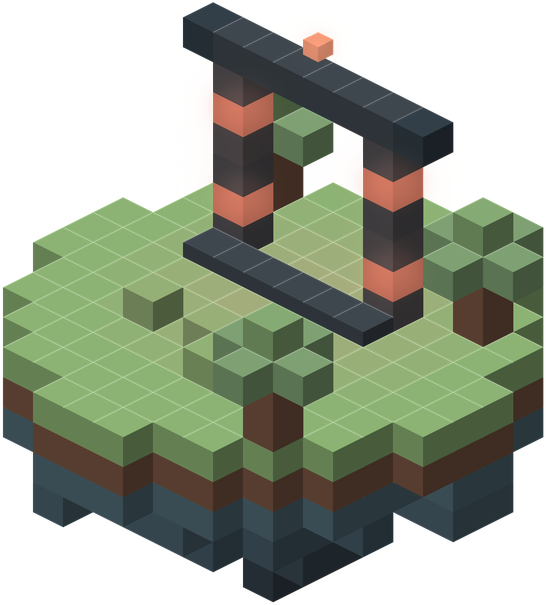
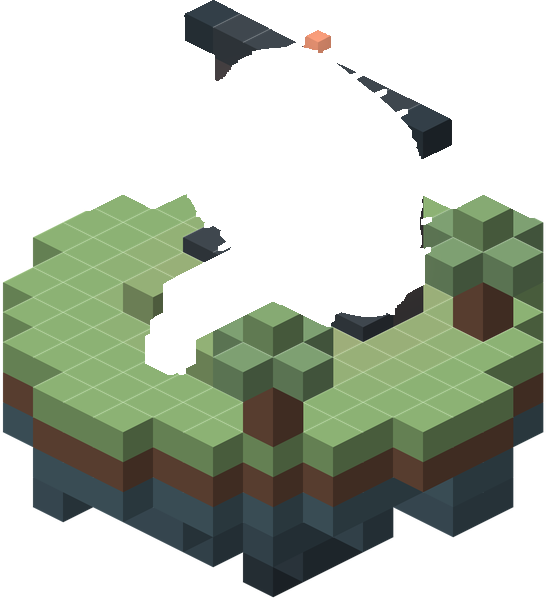
fix(docs): keep the trees and the traveller's bushes in front of the hero gate
Redrawing the stonework in the gate overlay put the pillar back in front of
the membrane but pushed the gate over the trees standing in front of it. The
overlay is now the whole portal island rendered depth-sorted, cut to the
region where any frame differs from the still, and that region is cut out of
the still so nothing is composited twice. The traveller joins the same scene,
so it walks behind the bush in front of the gate instead of over it.

diff --git a/docs/assets/site/generate.py b/docs/assets/site/generate.py
@@ -90,8 +90,8 @@ HERO_GATE_MS = 40  # 48 x 40ms = 24fps, a 1.92s loop
 # canvas's own (0, 0) sits in the hero's page-px space (chosen with margin around the gate's
 # known footprint); HERO_MID_GATE_OX/OY place the gate within it the same way HERO_MID_OY places
 # it in the full hero.
-HERO_MID_GATE_CANVAS = (300, 300)
-HERO_MID_GATE_SHIFT = (600, 140)
+HERO_MID_GATE_CANVAS = (360, 380)
+HERO_MID_GATE_SHIFT = (540, 120)
 HERO_MID_GATE_OX = 720 - HERO_MID_GATE_SHIFT[0]
 HERO_MID_GATE_OY = HERO_MID_OY - HERO_MID_GATE_SHIFT[1]
 
@@ -148,15 +148,20 @@ def hero_near_island(seed, x, y, radius, depth, trees, s):
     return scene.render(bloom=8, strength=0.55)
 
 
+def hero_mid_scene(t):
+    """The portal island's voxels and its gate's voxels at time t (the island never changes)."""
+    gate_vox, cells = gate(-3, -2, 0, 4, 6, np.random.default_rng(2), t=t)
+    base = island(np.random.default_rng(3), 6, 3, keep_clear=cells,
+                  light=((0, -1), SALMON_LIGHT, 5), tree_cells=[(-4, -4), (4, -3), (4, 4)])
+    return base, gate_vox
+
+
 def hero_mid_stones():
     """The portal island and its gate stonework: pillars, lintel, keystone, rune inlays. Static -
     the same image every frame - so gate()'s membrane and sparks (small emissive voxels, size <
-    0.5) are left out here and rendered separately by hero_mid_gate_frame, since those are the
-    only part of the portal that actually needs to animate."""
+    0.5) are left out here; hero_mid_gate_frame supplies them."""
     w, h = HERO
-    gate_vox, cells = gate(-3, -2, 0, 4, 6, np.random.default_rng(2), t=0.0)
-    base = island(np.random.default_rng(3), 6, 3, keep_clear=cells,
-                  light=((0, -1), SALMON_LIGHT, 5), tree_cells=[(-4, -4), (4, -3), (4, 4)])
+    base, gate_vox = hero_mid_scene(0.0)
     stones = [v for v in gate_vox if v[5] >= 0.5]  # v = (i, j, k, color, alpha, size, emissive)
     scene = Scene(w, h)
     scene.add(base + stones, w / 2, HERO_MID_OY, 15)
@@ -164,31 +169,58 @@ def hero_mid_stones():
 
 
 def hero_mid_gate_frame(t):
-    """The vortex membrane, its sparks, and the traveller crossing through: the only part of the
-    portal that moves frame to frame, redrawn over the gate stonework. Same formulas as the old hero_mid(t), just on the small
-    dedicated canvas above instead of the full hero, and no longer sharing a frame budget with
-    the static stonework in hero_mid_stones."""
+    """The portal island and its whole gate at time t, with the traveller crossing through,
+    depth-sorted in one scene on the gate's small canvas. hero_gate_layers keeps only the part of
+    it that moves."""
     w, h = HERO_MID_GATE_CANVAS
-    gate_vox, cells = gate(-3, -2, 0, 4, 6, np.random.default_rng(2), t=t)
-    # The stonework is static and already in hero_mid_stones, but it is drawn here again so it is
-    # depth-sorted with the membrane: without it the membrane, stacked on top of the island
-    # image, covers the front pillar and looks shifted off the centre of its gate.
+    base, gate_vox = hero_mid_scene(t)
     scene = Scene(w, h)
-    scene.add(gate_vox, HERO_MID_GATE_OX, HERO_MID_GATE_OY, 15)
-    img = scene.render(bloom=15, strength=0.7)
+    scene.add(base + gate_vox, HERO_MID_GATE_OX, HERO_MID_GATE_OY, 15)
 
-    # the traveller walks up from the grass, through the opening, and fades into the membrane
+    # the traveller walks up from the grass, through the opening, and fades into the membrane;
+    # in the same scene so the bushes it passes behind stay in front of it
     phase = t % 1.0
     if phase < 0.6:
         u = phase / 0.6
         j = 3.0 - 3.6 * u
         alpha = int(255 * min(1.0, u / 0.15) * min(1.0, (1 - u) / 0.35))
-        fig = Scene(w, h)
         # size=0.9 rendered at roughly 7 page px, unreadable at hero scale even at the loop's
         # midpoint; 2.4 reads as a small figure instead of a flicker.
-        fig.add(traveller(0.3, j, 0.05, alpha=alpha, size=2.4), HERO_MID_GATE_OX, HERO_MID_GATE_OY, 15)
-        img.alpha_composite(fig.render(bloom=0))
-    return img
+        scene.add(traveller(0.3, j, 0.05, alpha=alpha, size=2.4), HERO_MID_GATE_OX, HERO_MID_GATE_OY, 15)
+    return scene.render(bloom=15, strength=0.7)
+
+
+def hero_gate_layers(stones):
+    """Splits the portal into the static island image and the animated overlay stacked on it.
+    The overlay cannot just be the membrane: sitting on top, it would cover the pillar and the
+    trees in front of the gate. So every frame is the whole scene, depth-sorted, and the overlay
+    keeps the region where any frame differs from the still, cut out of the still so it is drawn
+    once, never twice (two semi-transparent edges stacked would darken). The overlay reaches a
+    little past the hole on opaque pixels, which hides the seam a browser's resampling leaves
+    along a hard cut. Returns the holed still (hero canvas) and the overlay frames (gate canvas)."""
+    sx, sy = HERO_MID_GATE_SHIFT
+    gw, gh = HERO_MID_GATE_CANVAS
+    box = (sx * R, sy * R, (sx + gw) * R, (sy + gh) * R)
+    still = np.asarray(stones.crop(box)).astype(int)
+    frames = [hero_mid_gate_frame(n / HERO_GATE_FRAMES) for n in range(HERO_GATE_FRAMES)]
+    changed = np.zeros(still.shape[:2], bool)
+    for f in frames:
+        changed |= np.abs(np.asarray(f).astype(int) - still).max(axis=2) > 3
+
+    def grow(mask, px):
+        img = Image.fromarray(mask.astype(np.uint8) * 255).filter(ImageFilter.MaxFilter(2 * px + 1))
+        return np.asarray(img) > 0
+
+    hole = grow(changed, 2)
+    keep = hole | (grow(changed, 4) & (still[..., 3] == 255))
+    overlays = []
+    for f in frames:
+        a = np.asarray(f).copy()
+        a[~keep] = 0
+        overlays.append(Image.fromarray(a, "RGBA"))
+    holed = np.asarray(stones).copy()
+    holed[box[1]:box[3], box[0]:box[2]][hole] = 0
+    return Image.fromarray(holed, "RGBA"), overlays
 
 
 def save_hero_crop(name, img):
@@ -591,9 +623,9 @@ if __name__ == "__main__":
     for n, (seed, x, y, radius, depth, trees, s, phase, amp) in enumerate(HERO_NEAR_SPOTS):
         box = save_hero_crop(f"hero-near-{n + 1}", hero_near_island(seed, x, y, radius, depth, trees, s))
         print(f"hero-near-{n + 1}", box, phase, amp)
-    box = save_hero_crop("hero-mid-island", hero_mid_stones())
+    stones, gate_frames = hero_gate_layers(hero_mid_stones())
+    box = save_hero_crop("hero-mid-island", stones)
     print("hero-mid-island", box, HERO_MID_PHASE, HERO_MID_AMP)
-    gate_frames = [hero_mid_gate_frame(n / HERO_GATE_FRAMES) for n in range(HERO_GATE_FRAMES)]
     box = save_hero_gate("hero-mid-gate", gate_frames, shift=HERO_MID_GATE_SHIFT)
     print("hero-mid-gate", box, HERO_MID_PHASE, HERO_MID_AMP)
 

diff --git a/docs/assets/site/README.md b/docs/assets/site/README.md
@@ -36,8 +36,8 @@ frame; everything else is a still image that moves by CSS alone.
 | `hero-bg.webp` / `-light.webp` | 1440x640 | - | Opaque nebula and stars (dark/light theme), lighter near the top fading to void (or sky) at the bottom. No animation. |
 | `hero-far-1..6.png` | varies, cropped to content | - | The six small, distant islands, each its own static transparent crop. Bobs via CSS (`--mf-bob`, `animation-delay` set per island from its old phase). |
 | `hero-near-1..2.png` | varies, cropped to content | - | The one or two large islands cropped by the hero's frame edge, closer to the viewer. Same static-crop-plus-CSS-bob treatment as `hero-far-*`. |
-| `hero-mid-island.png` | 273x303 | - | The portal island and its gate stonework (pillars, lintel, keystone, rune inlays): static, since only the membrane between the pillars actually moves. |
-| `hero-mid-gate.webp` / `.png` | 168x213 | 48 frames, 1.92s (25fps) | The vortex membrane, its sparks, the traveller and the gate stonework redrawn so the front pillar stays in front of the membrane, cropped tightly to the gate instead of the full hero canvas - the one piece of the portal that still needs real frames. Shares its bob wrapper with `hero-mid-island.png` (same phase) so the two never drift apart. `.png` is the reduced-motion still. |
+| `hero-mid-island.png` | 273x300 | - | The portal island and its gate stonework, with a hole where `hero-mid-gate.webp` draws the moving part. |
+| `hero-mid-gate.webp` / `.png` | 226x191 | 48 frames, 1.92s (25fps) | Everything around the portal that moves: the vortex membrane, its sparks and the traveller. Each frame is the whole portal island rendered depth-sorted, cut to the region where any frame differs from the still, and that region is cut out of `hero-mid-island.png`, so the pillar and the trees in front stay in front and nothing is drawn twice. Shares its bob wrapper with `hero-mid-island.png`. `.png` is the reduced-motion still. |
 
 `hero-far-*` and `hero-near-*` need no `-720` companion: each is already a few KB, cropped to its
 own content by `save_hero_crop` in `generate.py`. `hero-mid-gate.webp` is the one hero asset

diff --git a/docfx/index.md b/docfx/index.md
@@ -28,10 +28,10 @@ title: Manifold
 </div>
 <div class="mf-hero__layer mf-hero__layer--mid">
 <div class="mf-hero__bob" style="--mf-bob: 2px; animation-delay: 0s;">
-<img class="mf-hero__island" src="assets/site/hero-mid-island.png" style="--ix: 583.5; --iy: 171.5; --iw: 273; --ih: 302.5;" width="273" height="303" alt="" loading="eager" decoding="async">
+<img class="mf-hero__island" src="assets/site/hero-mid-island.png" style="--ix: 583.5; --iy: 174; --iw: 273; --ih: 300;" width="273" height="300" alt="" loading="eager" decoding="async">
 <picture>
 <source media="(prefers-reduced-motion: reduce)" srcset="assets/site/hero-mid-gate.png">
-<img class="mf-hero__island" src="assets/site/hero-mid-gate.webp" srcset="assets/site/hero-mid-gate-720.webp 167w, assets/site/hero-mid-gate.webp 335w" sizes="(max-width: 768px) 17vw, 168px" style="--ix: 656; --iy: 171.5; --iw: 167.5; --ih: 212.5;" width="168" height="213" alt="" loading="eager" decoding="async">
+<img class="mf-hero__island" src="assets/site/hero-mid-gate.webp" srcset="assets/site/hero-mid-gate-720.webp 226w, assets/site/hero-mid-gate.webp 452w" sizes="(max-width: 768px) 24vw, 226px" style="--ix: 625.5; --iy: 171.5; --iw: 226; --ih: 191;" width="226" height="191" alt="" loading="eager" decoding="async">
 </picture>
 </div>
 </div>
